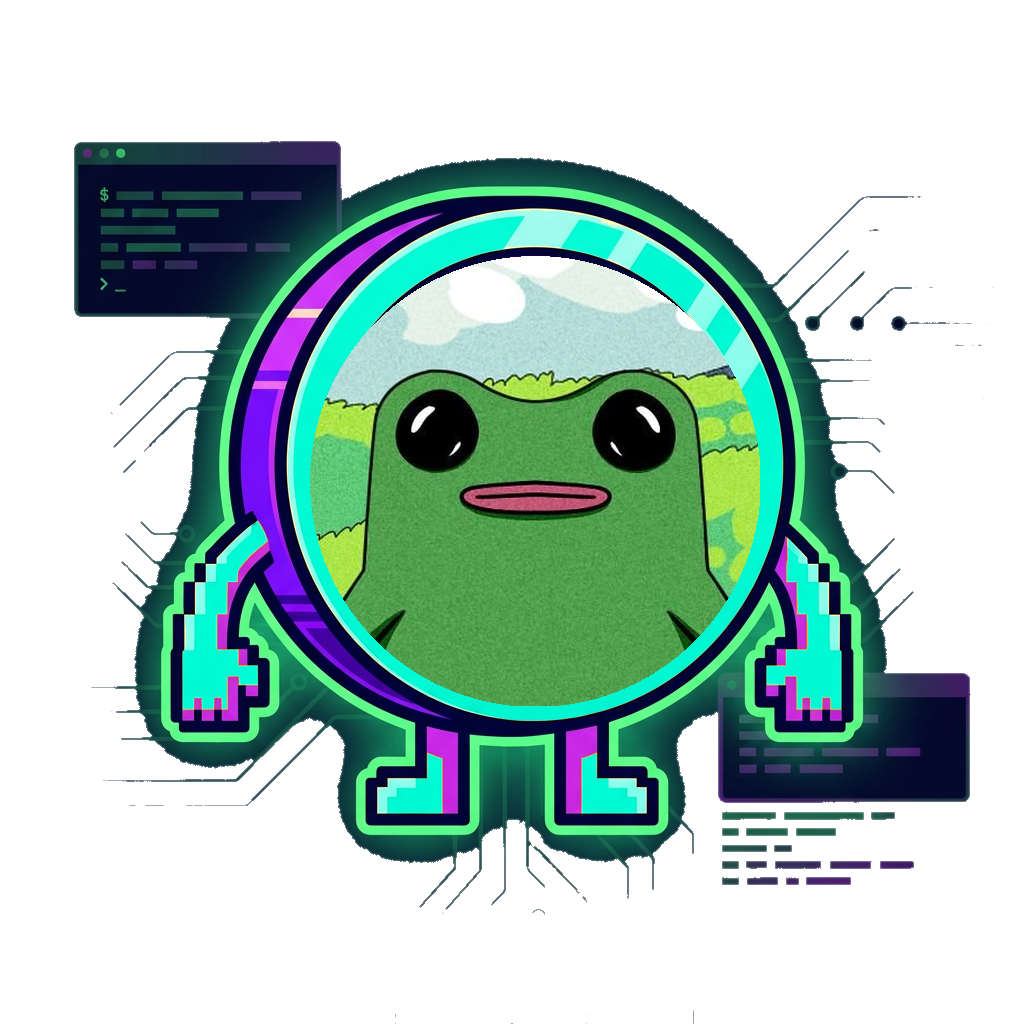
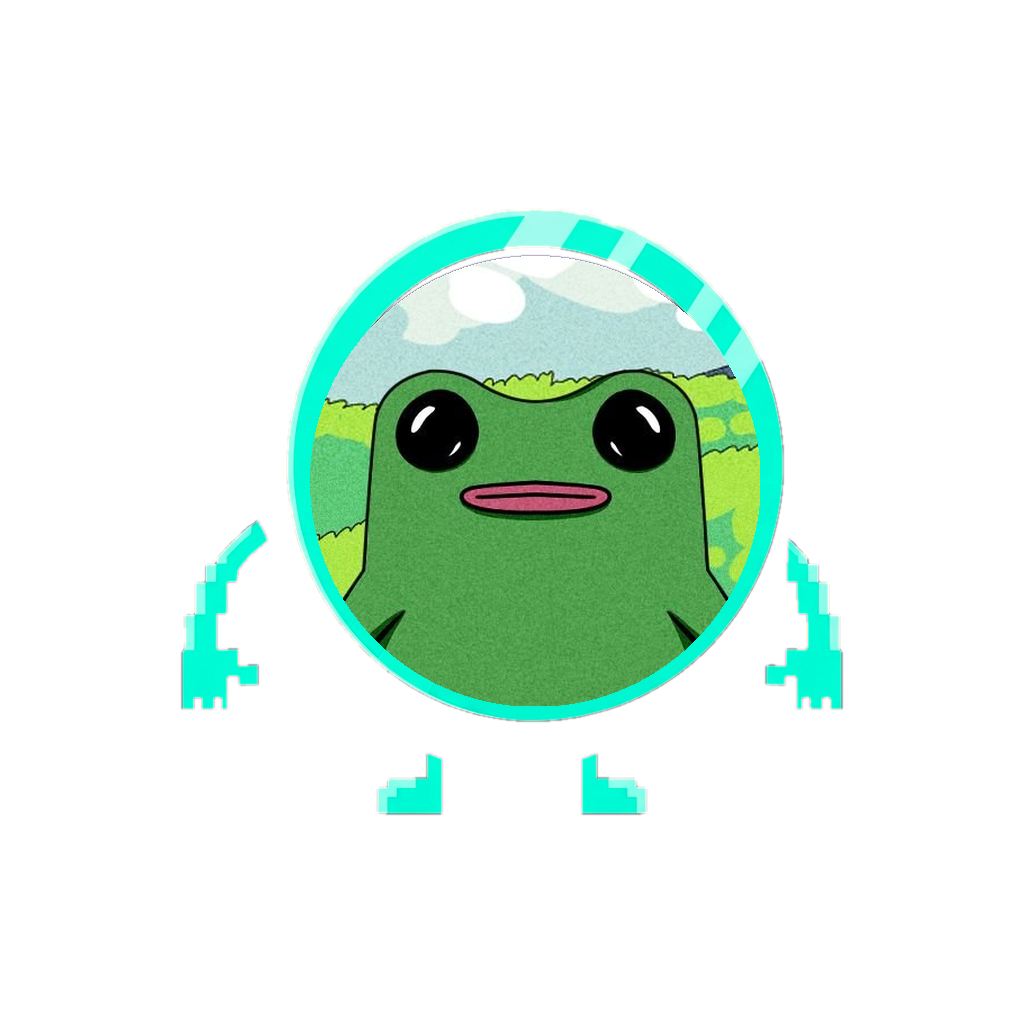
Fix transparency: remove opaque background islands from coin sprites
The 14 token coins share an identical composited background; an
intersection mask (pixels agreeing within tolerance 3 across all 14)
isolates navy/windows/circuit-trace background in one step without
touching character bodies, which differ in tint across coins.

coin-base.png and coin-rugger-hint.png use luminance-based blob
detection (bright core threshold, connected-component selection of
the central figure, small glow ring) instead of corner flood-fill,
which drifted through the smooth background gradient and ate into
the character. coin-rugged.png was already correctly transparent.

diff --git a/assets/scripts/make_faces.py b/assets/scripts/make_faces.py
@@ -1,0 +1,66 @@
+#!/usr/bin/env python3
+"""Generate circular face-crop PNGs for the layered sprite system.
+
+Reads assets/tokens/raw/<T>.png, applies the same per-ticker crop boxes as
+CROP_BOX_OVERRIDES in composite_tokens.py, and writes a 512x512 RGBA
+circular crop with a 2px feathered edge to assets/tokens/faces/<T>.png.
+"""
+
+from pathlib import Path
+
+from PIL import Image, ImageDraw, ImageFilter
+
+SCRIPT_DIR = Path(__file__).resolve().parent
+ROOT = SCRIPT_DIR.parent
+RAW_DIR = ROOT / "tokens" / "raw"
+FACES_DIR = ROOT / "tokens" / "faces"
+
+DIAMETER = 512
+FEATHER = 2
+
+# Kept in sync with composite_tokens.py CROP_BOX_OVERRIDES.
+CROP_BOX_OVERRIDES = {
+    "GIGA": (20, 0, 920, 900),
+    "MOODENG": (10, 0, 470, 460),
+}
+
+
+def circular_face(raw_path: Path, diameter: int, feather: int) -> Image.Image:
+    img = Image.open(raw_path).convert("RGBA")
+    override = CROP_BOX_OVERRIDES.get(raw_path.stem)
+    if override:
+        img = img.crop(override)
+    else:
+        w, h = img.size
+        side = min(w, h)
+        left = (w - side) // 2
+        top = (h - side) // 2
+        img = img.crop((left, top, left + side, top + side))
+    img = img.resize((diameter, diameter), Image.LANCZOS)
+
+    # Supersample the mask so the feathered edge is smooth at full res.
+    scale = 4
+    big = diameter * scale
+    mask = Image.new("L", (big, big), 0)
+    ImageDraw.Draw(mask).ellipse((0, 0, big - 1, big - 1), fill=255)
+    mask = mask.resize((diameter, diameter), Image.LANCZOS)
+    mask = mask.filter(ImageFilter.GaussianBlur(feather))
+
+    img.putalpha(mask)
+    return img
+
+
+def main() -> None:
+    FACES_DIR.mkdir(parents=True, exist_ok=True)
+    raw_files = sorted(RAW_DIR.glob("*.png"))
+    if not raw_files:
+        raise SystemExit(f"no raw token PNGs found in {RAW_DIR}")
+    for raw_path in raw_files:
+        face = circular_face(raw_path, DIAMETER, FEATHER)
+        out_path = FACES_DIR / raw_path.name
+        face.save(out_path)
+        print(f"wrote {out_path} ({face.size[0]}x{face.size[1]})")
+
+
+if __name__ == "__main__":
+    main()
